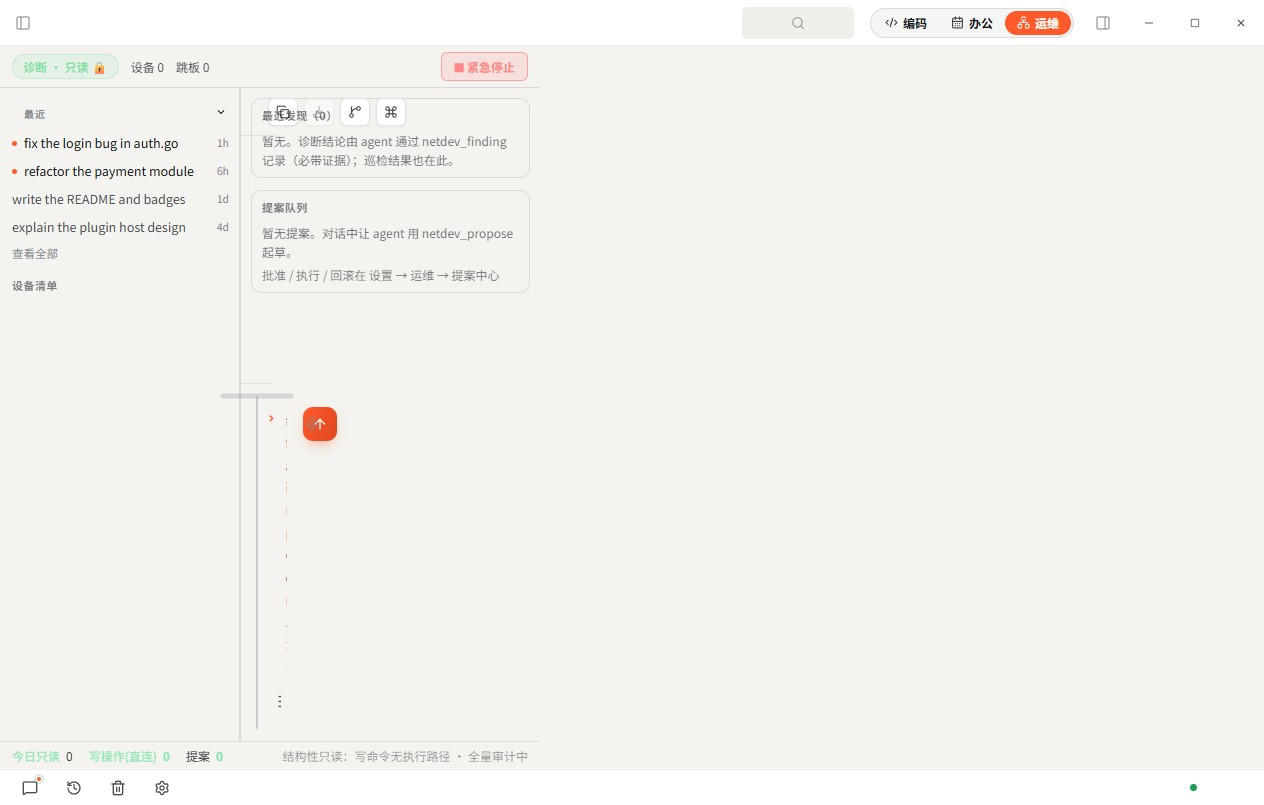
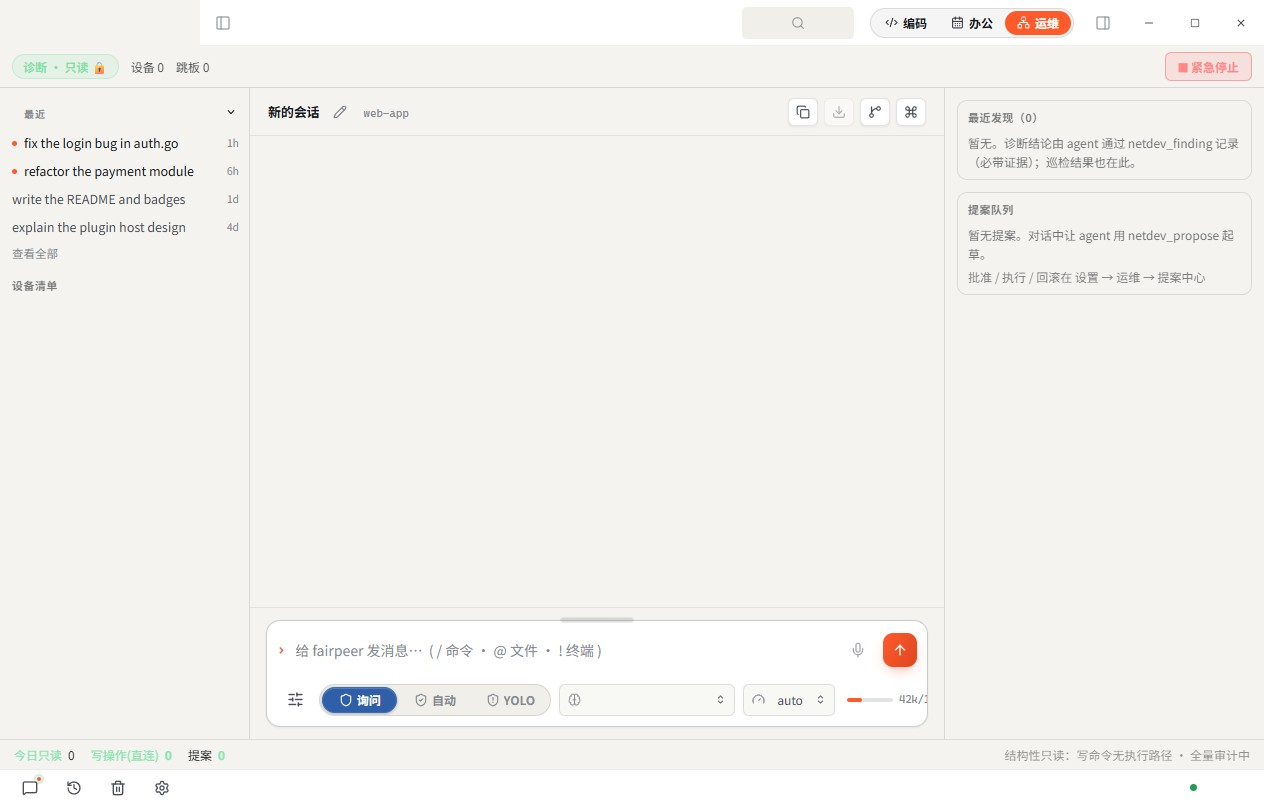
fix(netdev): 修复运维布局在真实桌面里塌陷到左上角的问题
根因：.app 根节点是网格容器，CoWorkLayout 撑满靠的是 grid-row: 2/-1 +
grid-column: 1/-1（作为网格项占满主体区域）；.ndv 却是 height:100% 的
普通 div——挂在自动行高的网格里塌缩为内容高度，全部内容挤进左上角、
其余空白（浏览器 dev shell 里恰好没暴露）。

修复：照抄 cowork 的网格定位 + 中间行 minmax(0,1fr)（内层滚动正确接合）+
子面板 min-height/min-width:0；背景全面换主题 token（var(--bg)/
--bg-raised），跟随深浅色主题。ndvshot 复跑 + 视觉复核：三栏铺满、
徽章/急停/右栏卡片/底部心跳条全部就位。

diff --git a/desktop/frontend/src/styles/netdev.css b/desktop/frontend/src/styles/netdev.css
@@ -12,12 +12,19 @@
   display: none;
 }
 
+/* The layout is a grid ITEM inside the app's outer grid, exactly like
+   .cowork-layout: pin to row 2..end spanning all columns, or the auto row
+   collapses to content height and everything crams into the top-left. */
 .ndv {
+  grid-row: 2 / -1;
+  grid-column: 1 / -1;
   display: grid;
-  grid-template-rows: auto 1fr auto;
-  grid-template-columns: var(--ndv-sidebar-w, 240px) 1fr var(--ndv-dock-w, 300px);
-  height: 100%;
+  grid-template-rows: auto minmax(0, 1fr) auto;
+  grid-template-columns: var(--ndv-sidebar-w, 250px) minmax(0, 1fr) var(--ndv-dock-w, 320px);
   min-height: 0;
+  min-width: 0;
+  overflow: hidden;
+  background: var(--bg);
 }
 
 .ndv__top {
@@ -26,8 +33,8 @@
   align-items: center;
   gap: 12px;
   padding: 6px 12px;
-  border-bottom: 1px solid var(--border, #2c313a);
-  background: var(--bg, #1e222a);
+  border-bottom: 1px solid var(--border);
+  background: var(--bg-raised, var(--bg));
 }
 
 .ndv__badge {
@@ -68,8 +75,10 @@
   grid-row: 2;
   display: flex;
   flex-direction: column;
-  border-right: 1px solid var(--border, #2c313a);
+  border-right: 1px solid var(--border);
+  background: var(--bg-raised, var(--bg));
   min-height: 0;
+  min-width: 0;
   overflow-y: auto;
 }
 
@@ -102,21 +111,25 @@
   flex-direction: column;
   min-width: 0;
   min-height: 0;
+  background: var(--bg);
 }
 
 .ndv__dock {
   grid-row: 2;
   grid-column: 3;
-  border-left: 1px solid var(--border, #2c313a);
+  border-left: 1px solid var(--border);
+  background: var(--bg-raised, var(--bg));
+  min-height: 0;
+  min-width: 0;
   overflow-y: auto;
-  padding: 10px;
+  padding: 12px;
   display: flex;
   flex-direction: column;
   gap: 12px;
 }
 
 .ndv__card {
-  border: 1px solid var(--border, #2c313a);
+  border: 1px solid var(--border);
   border-radius: var(--radius-md);
   padding: 8px 10px;
   font-size: 12px;
@@ -130,10 +143,11 @@
   display: flex;
   align-items: center;
   gap: 16px;
-  padding: 4px 12px;
-  border-top: 1px solid var(--border, #2c313a);
+  padding: 5px 14px;
+  border-top: 1px solid var(--border);
+  background: var(--bg-raised, var(--bg));
   font-size: 12px;
-  opacity: 0.85;
+  opacity: 0.9;
 }
 .ndv__bottom-item { display: inline-flex; gap: 6px; align-items: center; }
 .ndv__ok { color: #7ee2a8; }
